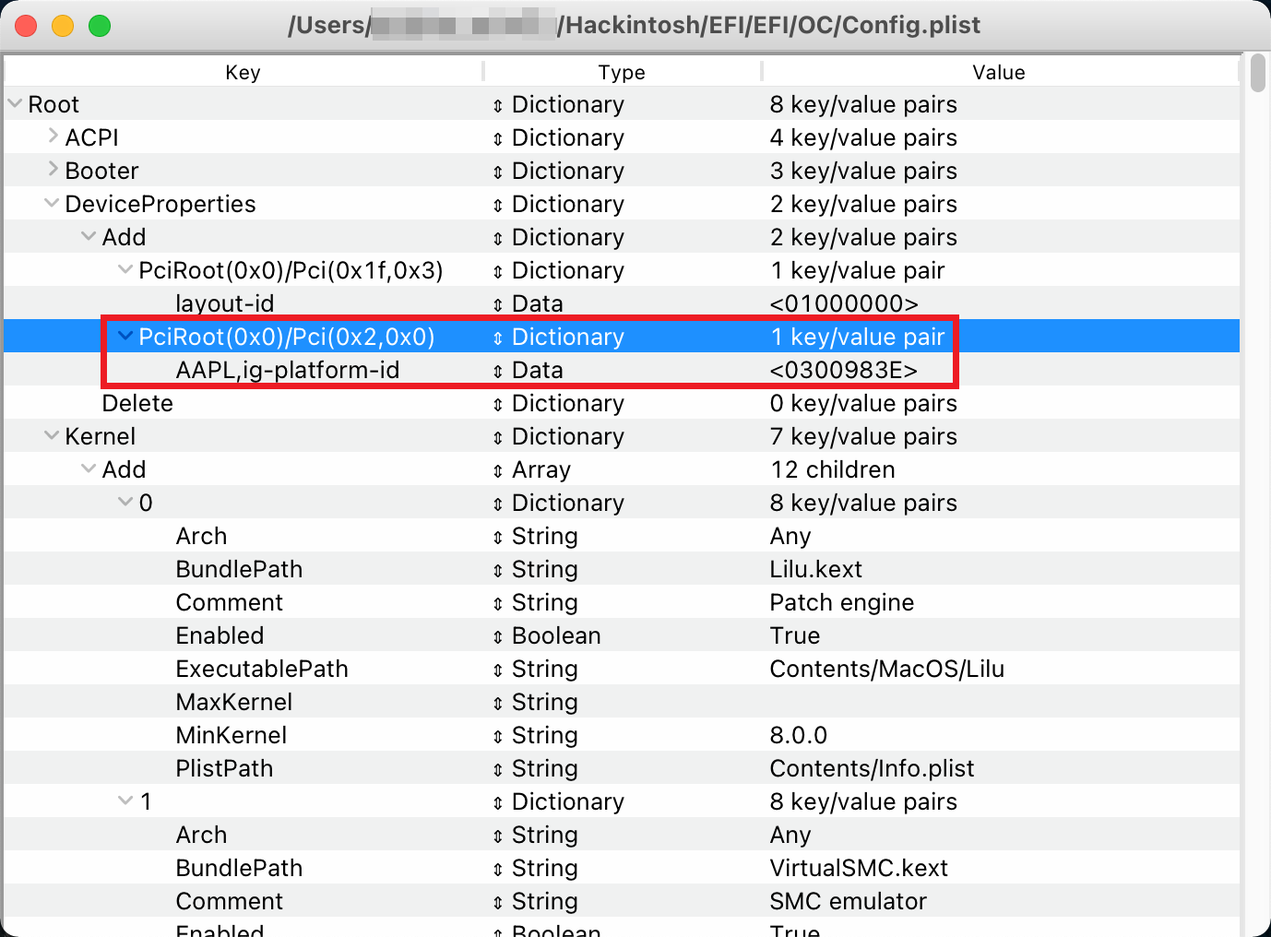
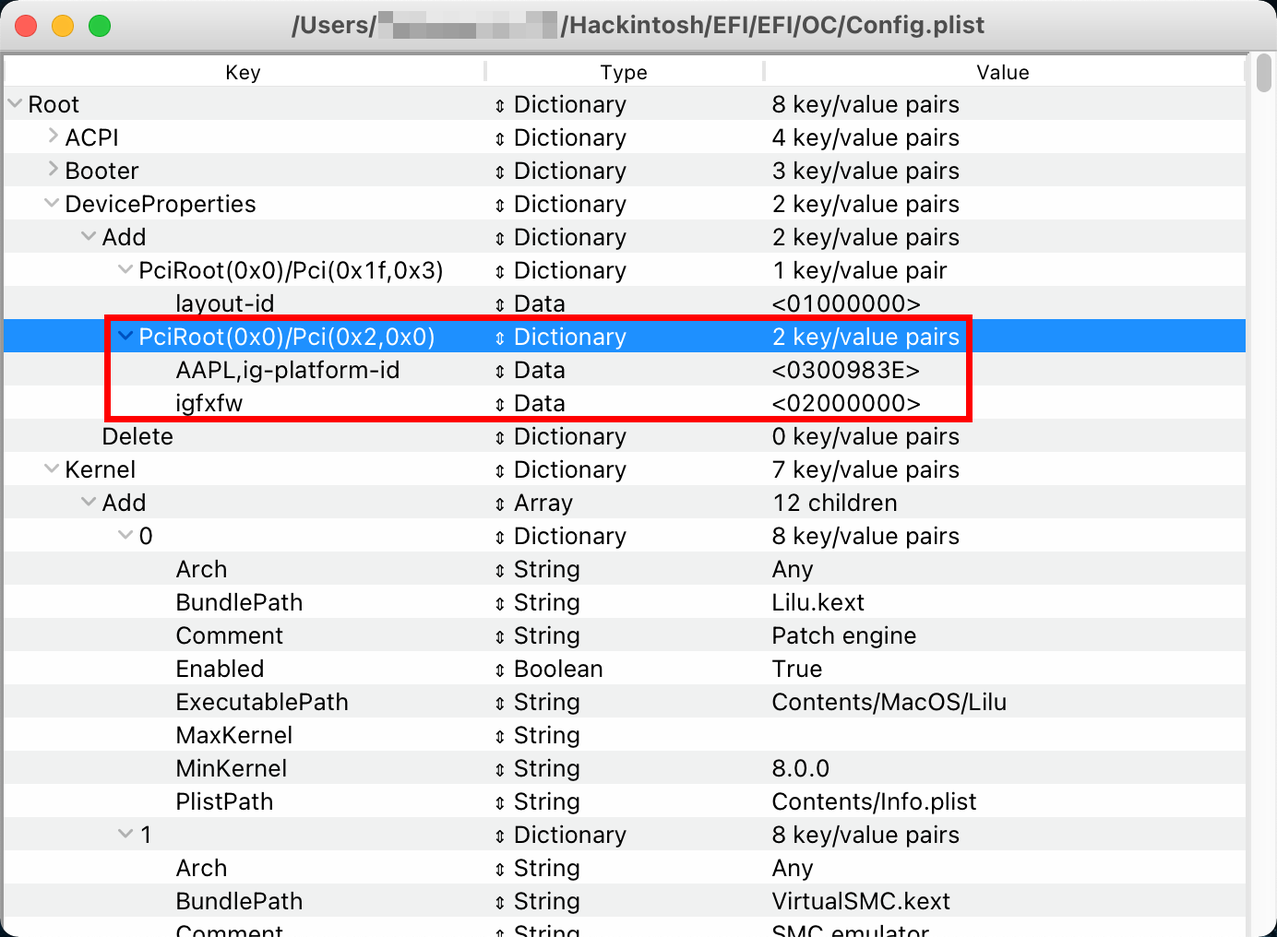
Update and fix

diff --git a/README.en.md b/README.en.md
@@ -1,7 +1,7 @@
-# MSI B360M MORTAR (TITANIUM) HACKINTOSH OpenCore EFI
+# MSI B360M MORTAR (TITANIUM) Hackintosh OpenCore EFI
 
 [![OpenCore](https://img.shields.io/badge/OpenCore-0.7.7-1ac3d4)](https://github.com/acidanthera/OpenCorePkg/releases/latest)
-[![MacOS](https://img.shields.io/badge/macOS-12.1-c62eb8)](https://www.apple.com/macos/monterey/)
+[![MacOS](https://img.shields.io/badge/macOS-12.2-c62eb8)](https://www.apple.com/macos/monterey/)
 [![Last Commit](https://img.shields.io/github/last-commit/GeQ1an/MSI-B360M-MORTAR-HACKINTOSH-OPENCORE-EFI.svg?color=orange&label=Last%20Commit)](https://github.com/GeQ1an/MSI-B360M-MORTAR-HACKINTOSH-OPENCORE-EFI/commits/master/)
 [![Follow Me](https://img.shields.io/badge/Follow-Telegram-1da4de)](https://t.me/usestick/)
 
@@ -11,9 +11,9 @@ My English is average, but I will try my best to translate, some content from Go
 
 <img src="Images/Readme/Image.jpg" align="right" width="360" />
 
-This EFI uses `iMac19,1` SMBIOS. Most users of MSI B360M MORTAR (includes TITANIUM version) can use it through modification. The integrated graphics and discrete graphics participate in hardware decoding. By default, all USB ports are injected. OpenCore version: 0.7.7. The highest system supports macOS Monterey 12.2 beta.
+This EFI uses `iMac19,1` SMBIOS. Most users of MSI B360M MORTAR (includes TITANIUM version) can use it through modification. The integrated graphics and discrete graphics participate in hardware decoding. By default, all USB ports are injected. OpenCore version: 0.7.7. The highest system supports macOS Monterey 12.2.
 
-> Please note: This EFI is only a personal build sharing, and is marked with simple tips. It is not a standard OpenCore Hackintosh installation guide. If you need a standard installation guide, please jump to [Dortania's Getting Started](https://dortania.github.io/getting-started/). Starting hackintosh after installing or updating the hardware for the first time may encounter some problems. Although most of the problems can be solved, in fact, there are some problems that can not be solved. It can even be said that there is a certain element of luck. If you want to apply this EFI, it is recommended to use a configuration close to mine in order to have the same experience as much as possible.
+> Please note: This EFI is only a personal build sharing, and is marked with simple tips. It is not a standard OpenCore Hackintosh installation guide. If you need a standard installation guide, please jump to [Dortania's Getting Started](https://dortania.github.io/getting-started/). You may encounter some problems when starting Hackintosh after installing or updating hardware for the first time. Although most of the problems can be solved, there are actually some problems that cannot be solved. It can even be said that there is a certain element of luck in it. If you want to Applying this EFI recommends using hardware close to mine in order to have the same experience as possible.
 
 #### About Mac
 ![](https://raw.githubusercontent.com/GeQ1an/MSI-B360M-MORTAR-HACKINTOSH-OPENCORE-EFI/master/Images/Screenshots/About.en.png)
@@ -25,7 +25,7 @@ This EFI uses `iMac19,1` SMBIOS. Most users of MSI B360M MORTAR (includes TITANI
 - [x] AirDrop / Handoff / Sidecar
 - [x] FaceTime / iMessage
 - [x] Apple Music / Apple TV Plus
-- [x] XCPM / HWP
+- [x] XCPM (XNU's CPU Power Management) / HWP
 - [x] Sleep / Wake from Keyboard and Mouse
 - [x] Other Mac features (99% completed)
 
@@ -56,7 +56,7 @@ This EFI uses `iMac19,1` SMBIOS. Most users of MSI B360M MORTAR (includes TITANI
 |         Memory | Commonly used RAMs are generally compatible                                                                 |
 |            SSD | Except for some special (e.g. Samsung PM981 / PM991), the commonly used SSDs are generally compatible       |
 |  Graphics Card | RX 500 Series (Above 560) / RX VEGA Series / Radeon VII / RX 5000 Series / RX 6000 Series (Except 6700 XT)  |
-|  Wireless Card | Recommended Fenvi® FV-T919 or Mac disassembly network card (BCM94360 / BCM943602)                           |
+|  Wireless Card | Recommended Fenvi® FV-T919 or Mac disassembly wireless card (BCM94360 / BCM943602)                          |
 |   Case + Power | According to personal preferences and the power of CPU and graphics card                                    |
 |  Cooling + Fan | According to personal preferences                                                                           |
 |        Monitor | According to personal preferences (Recommended 4K or higher resolution)                                     |
@@ -64,76 +64,77 @@ This EFI uses `iMac19,1` SMBIOS. Most users of MSI B360M MORTAR (includes TITANI
 |         Others | According to personal preferences (Note device compatibility with macOS)                                    |
 
 *Tips 1：If you buy RX 500 series graphics cards, first choose Sapphire, then choose Dataland, Asus and MSI, try not to choose Yeston and XFX, and definitely avoid the RX 580 2048SP version!*<br>
-*Tips 2：It is recommended to buy new graphics cards of the RX 5000 series and RX 6000 series. Sapphire is relatively poor in the RX 6000 series. It is not recommended to choose it first, and definitely avoid the RX 6700 XT. The minimum macOS system version is Big Sur 11.4 beta 1 to use the RX 6800 / RX 6800 XT / RX 6900 XT graphics card, and the minimum system version of macOS to use the RX 6600 / RX 6600 XT graphics card is Monterey 12.1 beta 1.*<br>
-*Tips 3：Try to avoid Samsung when buying hard drives, especially macOS Monterey will cause longer boot time due to TRIM (almost all users have problems with the 970 EVO, and some users have problems with the 980 PRO). It is recommended to choose a relatively stable hard drive such as Western Digital SN850 / SN750 and Intel 760P.*<br>
+*Tips 2：It is recommended to buy new graphics cards of the RX 5000 series and RX 6000 series. Sapphire is relatively poor in the RX 6000 series. It is not recommended to choose it first, and definitely avoid the RX 6700 XT. The minimum macOS version required to use the RX 6800 / RX 6800 XT / RX 6900 XT graphics card is Big Sur 11.4 beta 1, and the minimum version of macOS to use the RX 6600 / RX 6600 XT graphics card is Monterey 12.1 beta 1.*<br>
+*Tips 3：Try to avoid Samsung when buying hard drives, especially macOS Monterey will cause longer boot time due to TRIM (Almost all users have problems with the 970 EVO, and some users have problems with the 980 PRO). It is recommended to choose a relatively stable hard drive such as Western Digital SN850 / SN750 and Intel 760P.*<br>
 
 ## Changelog
-#### January 21, 2022
-Replace USBPorts kext with USBMap kext
+#### January 23, 2022
+* Replaced USBPorts kext with USBMap kext
+* Adjusted igfxfw=2 parameter to integrated graphics DeviceProperties
 
-*Now because customizing USB on macOS has become very complicated, the default is changed to USBMap.kext which can be directly and easily customized on Windows. Go to [Advanced Used](#advanced-used) to see how to use my customized USB mapping.*
+*Now because customizing USB on macOS has become very complicated, the default is changed to USBMap.kext which can be directly and easily customized on Windows. Go to [Advanced Usage](#advanced-usage) to see how to use my customized USB mapping. After adjusting igfxfw=2 parameter to DeviceProperties, users without an integrated graphics card can simply delete PciRoot(0x0)/Pci(0x2,0x0) in DeviceProperties, and do not need to adjust boot-args.*
 
 #### January 17, 2022
-* Adjust some options in Config.plist
+* Adjusted some options in Config.plist
 
 *Specifically: Turn off Booter > Quirks > EnableWriteUnprotector & ProtectUefiServices, turn on RebuildAppleMemoryMap & SyncRuntimePermissions (theoretically, the compatibility is better, to avoid startup problems on some machines); Turn off Misc > Security > BlacklistAppleUpdate (deprecated as of OC 0.7.0); Turn off UEFI > Output > SanitiseClearScreen (this option does not take effect in BuiltinGraphics mode). This adjustment is to enhance compatibility and turn off unnecessary options. The previous settings do not affect the use. If there is no special requirement, you can wait until the next OC update.*
 
 #### January 12, 2022
-* Disable ACPI > Patch > 0 Patch in Config.plist for disabling modify GPRW power management S4 to S3
-* Disable Kernel > Add > 10 & 11 kexts in Config.plist for disabling CPUFriend
+* Disabled ACPI > Patch > 0 Patch in Config.plist for disabling modify GPRW power management S4 to S3
+* Disabled Kernel > Add > 10 & 11 kexts in Config.plist for disabling CPUFriend
 
 *Adhering to the principle of simplification, the test found that it is no longer necessary to downgrade GPRW to S3 to sleep normally, so this patch is turned off by default. If the sleep is not normal after the update (it appears to wake up from sleep), please try to reopen this patch. Disable CPUFriend by default for the convenience of basic users, and can be opened after customization if necessary.*
 
 #### January 11, 2022
-* Update OpenCore to 0.7.7 official version
-* Update Lilu \ AppleALC \ WhateverGreen kexts to latest official version, remove USBPower kext
-* Update OpenRuntime \ OpenCanopy \ OpenHfsPlus drivers
-* Organize SSDT into a more mainstream configuration, add SSDT-EC-USBX, update SSDT-PLUG, remove SSDT-PM and merge into SSDT-PLUG
+* Updated OpenCore to 0.7.7 official version
+* Updated Lilu \ AppleALC \ WhateverGreen kexts to latest official version, removed USBPower kext
+* Updated OpenRuntime \ OpenCanopy \ OpenHfsPlus drivers
+* Organized SSDT into a more mainstream configuration, added SSDT-EC-USBX, updated SSDT-PLUG, removed SSDT-PM and merge into SSDT-PLUG
 
 *OC 0.7.7's Config.plist adds and adjusts some entries, recommended to reconfigure according to usage habits. Support macOS 12.2 and can be updated in Software Update after the official version is released.*
 
 <details><summary>2021 History changes</summary>
 
 #### December 9, 2021
-* Update OpenCore to 0.7.6 official version
-* Update Lilu \ AppleALC \ VitualSMC kexts to latest official version, update USBInjectAll kext to newer modified version
-* Update OpenRuntime \ OpenCanopy drivers
+* Updated OpenCore to 0.7.6 official version
+* Updated Lilu \ AppleALC \ VitualSMC kexts to latest official version, updated USBInjectAll kext to newer modified version
+* Updated OpenRuntime \ OpenCanopy drivers
 
 *OC 0.7.6's Config.plist adds and adjusts some entries, recommended to reconfigure according to usage habits. This version will automatically detect HiDPI by default, generally no manual settings are required, but you may need to reset the NVRAM once (if the Apple logo is displayed abnormally during startup); Synchronized OC official hide the auxiliary tools in the guide selection interface, press the space bar to display.*
 
 #### November 10, 2021
-* Update OpenCore to 0.7.5 official version
-* Update Lilu \ AppleALC \ WhateverGreen \ VitualSMC kexts to latest official version
-* Update OpenRuntime \ OpenCanopy \ OpenHfsPlus drivers
-* Modify Misc > Security > DmgLoading to `Signed` \ Misc > Security > SecureBootModel to `Default` in Config.plist (See [Q&A 9](#9-why-enable-secure-boot-and-sip)); Modify NVRAM > Add > 7C436110-XXXX > csr-active-config to `00000000` \ Misc > Security > AllowToggleSip to `True/Yes` in Config.plist (See [Q&A 9](#9-why-enable-secure-boot-and-sip)); Modify Misc > Boot > TakeoffDelay to`5000` in Config.plist to improve compatibility
+* Updated OpenCore to 0.7.5 official version
+* Updated Lilu \ AppleALC \ WhateverGreen \ VitualSMC kexts to latest official version
+* Updated OpenRuntime \ OpenCanopy \ OpenHfsPlus drivers
+* Modified Misc > Security > DmgLoading to `Signed` \ Misc > Security > SecureBootModel to `Default` in Config.plist (See [Q&A 9](#9-why-enable-secure-boot-and-sip)); Modified NVRAM > Add > 7C436110-XXXX > csr-active-config to `00000000` \ Misc > Security > AllowToggleSip to `True/Yes` in Config.plist (See [Q&A 9](#9-why-enable-secure-boot-and-sip)); Modified Misc > Boot > TakeoffDelay to`5000` in Config.plist to improve compatibility
 
 **Notes**：1. If you are still using **macOS Catalina 10.15.x or older**, you need to **modify the UEFI > APFS > MinData and MinVersion parameters in Config.plist** to `-1` (See [Q&A 10](#10-why-need-to-modify-the-configuration-to-use-catalina)); 2. Update or install **macOS Big Sur 11.3.1 and later systems**, please **customize and enable the USB ports** in advance (See [Q&A Item 11](#11-why-have-to-customize-the-usb-ports)).<br>
 <br>
 *OC 0.7.5's Config.plist adds and deletes some entries, this change is relatively large, recommended to reconfigure according to usage habits. Support macOS 12.1 and can be updated in Software Update after the official version is released.*
 
 #### ~~July 12, 2021~~
-* ~~Update OpenCore to 0.7.1 official version~~
-* ~~Update Lilu \ AppleALC \ WhateverGreen \ VitualSMC \ IntelMausi \ CPUFriend kexts to latest official version, Add NVMeFix kext and enable~~
-* ~~Update OpenRuntime \ OpenCanopy drivers, Replace HfsPlus driver with OpenHfsPlus driver, Remove ExFatDxe driver~~
-* ~~Replace VerifyMsrE2 tool with ControlMsrE2 tool~~
-* ~~Update `/EFI/OC/Resources` boot theme files~~
+* ~~Updated OpenCore to 0.7.1 official version~~
+* ~~Updated Lilu \ AppleALC \ WhateverGreen \ VitualSMC \ IntelMausi \ CPUFriend kexts to latest official version, Added NVMeFix kext and enable~~
+* ~~Updated OpenRuntime \ OpenCanopy drivers, Replace HfsPlus driver with OpenHfsPlus driver, removed ExFatDxe driver~~
+* ~~Replaced VerifyMsrE2 tool with ControlMsrE2 tool~~
+* ~~Updated `/EFI/OC/Resources` boot theme files~~
 
 *~~OC 0.7.1's Config.plist adds and deletes some entries, recommended to reconfigure according to usage habits. In this version, the startup theme is enabled by default. If you need to turn it off, you can change the Misc > Boot > Picker: `External` to `Builtin` in Config.plist; Support macOS 11.5 and can be updated in Software Update after the official version is released.~~ This update has not been uploaded due to network issues.*
 
 #### February 8, 2021
-* Update OpenCore to 0.6.6 official version
-* Update Lilu \ AppleALC \ WhateverGreen \ VitualSMC kexts to latest official version
-* Update OpenRuntime \ OpenCanopy drivers
-* Update `/EFI/OC/Resources` boot theme files
-* Remove `/EFI/OC/Bootstrap/Bootstrap.efi`
+* Updated OpenCore to 0.6.6 official version
+* Updated Lilu \ AppleALC \ WhateverGreen \ VitualSMC kexts to latest official version
+* Updated OpenRuntime \ OpenCanopy drivers
+* Updated `/EFI/OC/Resources` boot theme files
+* Removed `/EFI/OC/Bootstrap/Bootstrap.efi`
 
 *OC 0.6.6's Config.plist adds and deletes some entries, recommended to reconfigure according to usage habits. Support macOS 11.2 and can be updated in Software Update. The usage of high priority for boot items has changed, see [Q&A 7](#7-how-to-use-oc-boot-item-high-priority).*
 
 #### January 16, 2021
-* Update OpenCore to 0.6.5 official version
-* Update AppleALC \ WhateverGreen \ IntelMausi \ CPUFriend kexts to latest official version
-* Update OpenRuntime \ OpenCanopy drivers
-* Update `/EFI/OC/Resources` boot theme files
+* Updated OpenCore to 0.6.5 official version
+* Updated AppleALC \ WhateverGreen \ IntelMausi \ CPUFriend kexts to latest official version
+* Updated OpenRuntime \ OpenCanopy drivers
+* Updated `/EFI/OC/Resources` boot theme files
 
 *OC 0.6.5's Config.plist only adds two new entries: Misc > Boot > PickerVariant and UEFI > Audio > SetupDelay, delete one entry: UEFI > Quirks > DeduplicateBootOrder. Recommended to add them manually.*
 
@@ -142,77 +143,77 @@ Replace USBPorts kext with USBMap kext
 <details><summary>2020 History changes</summary>
 
 #### December 18, 2020
-* Update OpenCore to 0.6.4 official version
-* Update Lilu \ AppleALC \ WhateverGreen \ VitualSMC kexts to latest official version, update USBInjectAll kext to newer modified version
-* Update OpenRuntime \ OpenCanopy drivers
-* Remove SSDT-HCMC SSDT file
+* Updated OpenCore to 0.6.4 official version
+* Updated Lilu \ AppleALC \ WhateverGreen \ VitualSMC kexts to latest official version, updated USBInjectAll kext to newer modified version
+* Updated OpenRuntime \ OpenCanopy drivers
+* Removed SSDT-HCMC SSDT file
 
 *OC 0.6.4's Config.plist adds and deletes some entries, recommended to reconfigure according to usage habits. Support macOS 11.1 and can be updated in Software Update.*
 
 #### November 12, 2020
-* Update OpenCore to 0.6.3 official version
-* Update Lilu \ AppleALC \ WhateverGreen \ VitualSMC kexts to latest official version
-* Update OpenRuntime \ OpenCanopy drivers
+* Updated OpenCore to 0.6.3 official version
+* Updated Lilu \ AppleALC \ WhateverGreen \ VitualSMC kexts to latest official version
+* Updated OpenRuntime \ OpenCanopy drivers
 
 *OC 0.6.3's Config.plist only adds three new entries: Kernel > Quirks > ForceSecureBootScheme, PlatformInfo > CustomMemory and UEFI > Output > ForceResolution. Recommended to add them manually. Support ~~bugOS~~macOS Big Sur 11.0 RC, see [Q&A 8](#8-how-to-use-macos-big-sur-11).*
 
 #### October 10, 2020
-* Update OpenCore to 0.6.2 official version
-* Update Lilu \ AppleALC \ WhateverGreen \ IntelMausi \ VitualSMC \ CPUFriend kexts to latest official version
-* Update OpenRuntime \ OpenCanopy drivers
-* Add `/EFI/OC/Bootstrap/Bootstrap.efi`
+* Updated OpenCore to 0.6.2 official version
+* Updated Lilu \ AppleALC \ WhateverGreen \ IntelMausi \ VitualSMC \ CPUFriend kexts to latest official version
+* Updated OpenRuntime \ OpenCanopy drivers
+* Added `/EFI/OC/Bootstrap/Bootstrap.efi`
 
 *OC 0.6.2's Config.plist adds and deletes some entries, recommended to reconfigure according to usage habits. Support macOS 10.15.6 and can be updated in Software Update; Support ~~bugOS~~macOS Big Sur 11.0 beta, see [Q&A 8](#8-how-to-use-macos-big-sur-11). For the Bootstrap, see [Q&A 7] (#7-how-to-use-oc-boot-item-high-priority).*
 
 #### September 16, 2020
-* Update OpenCore to 0.6.1 official version
-* Update Lilu \ AppleALC \ WhateverGreen \ VitualSMC kexts to latest official version
-* Update OpenRuntime \ OpenCanopy drivers
+* Updated OpenCore to 0.6.1 official version
+* Updated Lilu \ AppleALC \ WhateverGreen \ VitualSMC kexts to latest official version
+* Updated OpenRuntime \ OpenCanopy drivers
 
 *OC 0.6.1's Config.plist adds and deletes some entries, recommended to reconfigure according to usage habits. Support ~~bugOS~~macOS Big Sur 11.0 beta, see [Q&A 8](#8-how-to-use-macos-big-sur-11).*
 
 #### August 7, 2020
-* Update OpenCore to 0.6.0 official version
-* Update Lilu \ AppleALC \ WhateverGreen \ VitualSMC \ CPUFriend kexts to latest official version
-* Update OpenRuntime \ OpenCanopy drivers
+* Updated OpenCore to 0.6.0 official version
+* Updated Lilu \ AppleALC \ WhateverGreen \ VitualSMC \ CPUFriend kexts to latest official version
+* Updated OpenRuntime \ OpenCanopy drivers
 
 *OC 0.6.0's Config.plist adds and deletes some entries, recommended to reconfigure according to usage habits. Support macOS 10.15.6 and can be updated in Software Update; Support ~~bugOS~~macOS Big Sur 11.0 beta, see [Q&A 8](#8-how-to-use-macos-big-sur-11).*
 
 #### June 16, 2020
-* Update OpenCore to 0.5.9 official version
-* Update Lilu \ AppleALC \ IntelMausi \ WhateverGreen \ VitualSMC kexts to latest official version, update USBInjectAll kext to newer modified version
-* Update OpenRuntime \ OpenCanopy drivers, Remove the ApfsDriverLoader driver
-* Update `/EFI/OC/Resources` boot theme files
+* Updated OpenCore to 0.5.9 official version
+* Updated Lilu \ AppleALC \ IntelMausi \ WhateverGreen \ VitualSMC kexts to latest official version, updated USBInjectAll kext to newer modified version
+* Updated OpenRuntime \ OpenCanopy drivers, Removed the ApfsDriverLoader driver
+* Updated `/EFI/OC/Resources` boot theme files
 
 *OC 0.5.9's Config.plist adds and deletes some entries, recommended to reconfigure according to usage habits. Support macOS 10.15.5 and can be updated in Software Update.*
 
 #### April 12, 2020
-* Update OpenCore to 0.5.7 official version
-* Update Lilu \ AppleALC \ WhateverGreen \ VitualSMC kexts to latest official version
-* Replace the FwRuntimeServices driver with OpenRuntime driver, Add OpenCanopy driver
-* Replace Shell tools with OpenShell tools
-* Add the `/EFI/OC/Resources` theme related folder, where the Font\Image\Label directory contains files
-* Enable KASLR, add igfxfw=2 boot-args
+* Updated OpenCore to 0.5.7 official version
+* Updated Lilu \ AppleALC \ WhateverGreen \ VitualSMC kexts to latest official version
+* Replaced the FwRuntimeServices driver with OpenRuntime driver, Added OpenCanopy driver
+* Replaced Shell tools with OpenShell tools
+* Added the `/EFI/OC/Resources` theme related folder, where the Font\Image\Label directory contains files
+* Enabled KASLR, added igfxfw=2 boot-args
 
 *OC 0.5.7's Config.plist adds and deletes some entries, recommended to reconfigure according to usage habits. Added boot theme but not enabled by default. If you need to use it, you can change the Misc > Boot > Picker: `Builtin` to `External` in Config.plist; igfxfw=2 boot-args can use the integrated graphics at full frequency, if there is no integrated graphics, you can remove it.*
 
 #### March 3, 2020
-* Update OpenCore to 0.5.6 official version
-* Update Lilu \ AppleALC \ WhateverGreen kexts to latest official version
-* Update ApfsDriverLoader \ HfsPlus \ FwRuntimeServices drivers to latest version
-* Add ExFatDxe driver, add EFI > Drivers > 2: ExFatDxe.efi in Config.plist
-* Update Shell \ VerifyMsrE2 tools to latest version
-* Remove `/EFI/OC/Tools/memtest.efi`, remove Misc > Tools > 2 in Config.plist
+* Updated OpenCore to 0.5.6 official version
+* Updated Lilu \ AppleALC \ WhateverGreen kexts to latest official version
+* Updated ApfsDriverLoader \ HfsPlus \ FwRuntimeServices drivers to latest version
+* Added ExFatDxe driver, add EFI > Drivers > 2: ExFatDxe.efi in Config.plist
+* Updated Shell \ VerifyMsrE2 tools to latest version
+* Removed `/EFI/OC/Tools/memtest.efi`, removed Misc > Tools > 2 in Config.plist
 
 *OC 0.5.6's Config.plist adds and deletes some entries, recommended to reconfigure according to usage habits. Support ~~bugOS~~macOS 10.15.4 and can be updated in Software Update after the official version is released.*
 
 #### February 14, 2020
-* Remove Slide=129 boot-args（Related [Issue](https://github.com/GeQ1an/MSI-B360M-MORTAR-HACKINTOSH-OPENCORE-EFI/issues/7)）
-* Delete `/EFI/OC/Drivers/AppleUsbKbDxe.efi` (No effect, see the explanation of [vit9696 for details](https://applelife.ru/threads/opencore-obsuzhdenie-i-ustanovka.2944066/page-176#post-856653))
-* Modify `/EFI/OC/Drivers/HFSPlus.efi` name to `HfsPlus.efi`, modify UEFI > Drivers > 2 to HfsPlus.efi in Config.plist (Uniform name format)
+* Removed Slide=129 boot-args（Related [Issue](https://github.com/GeQ1an/MSI-B360M-MORTAR-HACKINTOSH-OPENCORE-EFI/issues/7)）
+* Deleted `/EFI/OC/Drivers/AppleUsbKbDxe.efi` (No effect, see the explanation of [vit9696 for details](https://applelife.ru/threads/opencore-obsuzhdenie-i-ustanovka.2944066/page-176#post-856653))
+* Modified `/EFI/OC/Drivers/HFSPlus.efi` name to `HfsPlus.efi`, modified UEFI > Drivers > 2 to HfsPlus.efi in Config.plist (Uniform name format)
 
 #### February 10, 2020
-* Fix OpenCore 0.5.5 renamed SupportCsm to AdviseWindows
+* Fixed OpenCore 0.5.5 renamed SupportCsm to AdviseWindows
 
 *Please manually change the name of this item (PlatformInfo > Generic) and suggest to adjust AdviseWindows to the top of Generic as per the official example.*
 
@@ -222,9 +223,9 @@ Replace USBPorts kext with USBMap kext
 *In the actual measurement, when TakeoffDelay is set to 150, the Native Shortcut Keys can be triggered, but the probability of success is small. 200 is a relatively balanced value, and it can be adjusted appropriately, such as between 300 and 500.*
 
 #### February 4, 2020
-* Update OpenCore to 0.5.5 official version
-* Update AppleALC \ VitualSMC kexts to latest official version
-* Add UEFI Shell tool (Not enabled)
+* Updated OpenCore to 0.5.5 official version
+* Updated AppleALC \ VitualSMC kexts to latest official version
+* Added UEFI Shell tool (Not enabled)
 
 *OC 0.5.5's Config.plist adds some new entries, recommended to reconfigure according to usage habits.*
 
@@ -238,14 +239,14 @@ sudo defaults delete com.apple.loginwindow LogoutHook  //Clear trigger settings 
 ```
 
 #### January 14, 2020
-* Update OpenCore to 0.5.4 official version
-* Update Lilu \ AppleALC \ CPUFriend \ VitualSMC \ WhateverGreen kexts to latest official version
-* Remove `/EFI/OC/Drivers/virtualsmc.efi` (already merged into OC)
+* Updated OpenCore to 0.5.4 official version
+* Updated Lilu \ AppleALC \ CPUFriend \ VitualSMC \ WhateverGreen kexts to latest official version
+* Removed `/EFI/OC/Drivers/virtualsmc.efi` (already merged into OC)
 
 *OC 0.5.4's Config.plist adds some new entries, recommended to reconfigure according to usage habits.*
 
 #### January 5, 2020
-* Use the official OpenCore patch to indirectly fix the "Can't sleep without Enable Power Nap" issue and remove SSDT-SBUS.aml
+* Used the official OpenCore patch to indirectly fix the "Can't sleep without Enable Power Nap" issue and remove SSDT-SBUS.aml
 
 *Disable Power Nap is to not be automatically woken up after sleep. After enabling the "Disable RTC wake scheduling" patch of OC, Enable Power Nap can go to sleep normally without being automatically woken up, and indirectly achieve "Disable Power Nap to go to sleep", such as The patch can be turned off manually without needing(Thanks to [ArchFeh](https://github.com/GeQ1an/MSI-B360M-MORTAR-HACKINTOSH-OPENCORE-EFI/issues/5) for the text suggestion).*<br>
 ![](https://raw.githubusercontent.com/GeQ1an/MSI-B360M-MORTAR-HACKINTOSH-OPENCORE-EFI/master/Images/Explain/ProperTree_Kernel_Patch.png)
@@ -255,18 +256,18 @@ sudo defaults delete com.apple.loginwindow LogoutHook  //Clear trigger settings 
 <details><summary>2019 History changes</summary>
 
 #### December 29, 2019
-* Update WhateverGreen kext to the latest compiled version of 1.3.6
-* Fix "Can't sleep without Enable Power Nap" (In theory it should working)
+* Updated WhateverGreen kext to the latest compiled version of 1.3.6
+* Fixed "Can't sleep without Enable Power Nap" (In theory it should working)
 
 #### December 23, 2019
-* Update WhateverGreen kext to 1.3.6
-* Modify the shikigva boot-args code to 80 (Support Safari hard-decoding DRM content)
+* Updated WhateverGreen kext to 1.3.6
+* Modified the shikigva boot-args code to 80 (Support Safari hard-decoding DRM content)
 
 #### December 20, 2019
-* Upload the lost SSDT-SBUS.aml (Used to fix "Can't sleep without Enable Power Nap", the specific effect is to be tested)
+* Uploaded the lost SSDT-SBUS.aml (Used to fix "Can't sleep without Enable Power Nap", the specific effect is to be tested)
 
 #### December 19, 2019
-* After three days of testing, upload the first version
+* After three days of testing, uploaded the first version
 
 </details>
 
@@ -337,7 +338,7 @@ After saving, pass the USB disk test first, and then put the EFI folder to the E
 ### Use Without Dedicated Graphics
 Suitable for users who **only use integrated graphics**.<br>
 1. Fill in the code + ROM information of the `Macmini8,1` model to PlatformInfo > Generic in `/EFI/OC/Config.plist`, and change the SystemProductName to `Macmini8,1`<br>
-2. Modify AAPL,ig-platform-id under DeviceProperties > Add > PciRoot(0x0)/Pci(0x2,0x0) in `/EFI/OC/Config.plist` to `07009B3E`, and add device-id to `9B3E0000`, add framebuffer-unifiedmem to `00000080`, add framebuffer-patch-enable to `01000000` (as shown below).<br>
+2. Modify AAPL,ig-platform-id under DeviceProperties > Add > PciRoot(0x0)/Pci(0x2,0x0) in `/EFI/OC/Config.plist` to `07009b3e`, and add device-id to `9b3e0000`, add framebuffer-patch-enable to `01000000`, add framebuffer-unifiedmem to `00000080` (as shown below).<br>
 ![](https://raw.githubusercontent.com/GeQ1an/MSI-B360M-MORTAR-HACKINTOSH-OPENCORE-EFI/master/Images/Explain/ProperTree_DeviceProperties_I.png)
 <br>
 After saving, pass the USB disk test first, and then put the EFI folder to the EFI partition of the boot disk and restart the computer.
@@ -345,10 +346,10 @@ After saving, pass the USB disk test first, and then put the EFI folder to the E
 ### For RX 5000 \ RX 6000 Series Discrete Graphics
 At present, RX 5000 series Navi 10 core graphics card, RX 6000 series Navi 21 core graphics card and RX 6000 series Navi 23 core graphics card should manually add the `agdpmod=pikera` boot-args to prevent black screen after startup, there is no other solution.
 
-### Advanced Used
+### Advanced Usage
 1. Refer to [OpenCore Post-Install](https://dortania.github.io/OpenCore-Post-Install/usb/intel-mapping/intel.html#intel-usb-mapping) use [USBToolBox](https://github.com/USBToolBox/tool/releases/latest) in Windows environment to generate `USBMap.kext` customized USB mapping, put `/EFI/OC/Kexts/` to replace the file with the same name, open `/EFI/OC/Config.plist`, Turn off Kernel > Add > 7, Turn on 8.<br>
    ![](https://raw.githubusercontent.com/GeQ1an/MSI-B360M-MORTAR-HACKINTOSH-OPENCORE-EFI/master/Images/Explain/ProperTree_Kernel_USB.png)
-   *There is my customized USB mapping in the directory, you can try it with your EFI backup. The SMBIOS is iMac19,1. If you use other SMBIOS, you need to open `USBMap.kext/Contents/Info.plist` and modify IOKitPersonalities > XHC > model: iMac19,1 to your SMBIOS; if you need to cancel the built-in HS07, open `USBMap.kext/Contents/Info.plist` and modify IOKitPersonalities > XHC > IOProviderMergeProperties > ports > HS07 > UsbConnector: 255 to 0. The specific USB mapping is shown below:*<br>
+   *There is my customized USB mapping in the directory, you can try it with your EFI backup. The SMBIOS is iMac19,1. If you use other SMBIOS, you need to open `USBMap.kext/Contents/Info.plist` and modify IOKitPersonalities > XHC > model: iMac19,1 to your SMBIOS. If you need to cancel the built-in HS07, open `USBMap.kext/Contents/Info.plist` and modify IOKitPersonalities > XHC > IOProviderMergeProperties > ports > HS07 > UsbConnector: 255 to 0. The specific USB mapping is shown below:*<br>
    
    <details><summary>Click to expand</summary>
    
@@ -417,7 +418,7 @@ At present, RX 5000 series Navi 10 core graphics card, RX 6000 series Navi 21 co
 #### 10. Why need to modify the configuration to use Catalina?
    Starting from OpenCore 0.7.2, earlier APFS drivers will not be loaded (for security reasons), which will cause systems lower than Big Sur 11.0 to fail to boot. If you want to boot Catalina or earlier systems, please Modify the MinDate and MinVersion under the configuration file UEFI > APFS to `-1`, please refer to the document in [OC 0.7.2 version](https://github.com/acidanthera/OpenCorePkg/releases/tag/0.7.2) for details.
 #### 11. Why have to customize the USB ports?
-   Starting from macOS Big Sur 11.3.1, the system will invalidate XhciPortLimit, so that even if the USBInjectAll kext is loaded, more than 15 USB ports cannot be loaded correctly. You can search for the USB customization tutorial by yourself or refer to [OpenCore Post Install](https:// dortania.github.io/OpenCore-Post-Install/usb/) Tutorial for customizing USB mapping. Or go to [Advanced Used](#advanced-used) to see how to use my customized USB mapping.
+   Starting from macOS Big Sur 11.3.1, the system will invalidate XhciPortLimit, so that even if the USBInjectAll kext is loaded, more than 15 USB ports cannot be loaded correctly. You can search for the USB customization tutorial by yourself or refer to [OpenCore Post Install](https:// dortania.github.io/OpenCore-Post-Install/usb/) Tutorial for customizing USB mapping. Or go to [Advanced Usage](#advanced-usage) to see how to use my customized USB mapping.
 #### 12. Pending upgrade
 
 ## Conclusion

diff --git a/Images/Preview.md b/Images/Preview.md
@@ -1,17 +1,17 @@
 ## 截图预览
-系统版本：macOS Monterey 12.1，OpenCare 版本：0.7.7，EFI 更新日期：2022.01.17
+系统版本：macOS Monterey 12.1，OpenCare 版本：0.7.7，EFI 更新日期：2022.01.23
 
 ### 关于本机
 ![](https://raw.githubusercontent.com/GeQ1an/MSI-B360M-MORTAR-HACKINTOSH-OPENCORE-EFI/master/Images/Screenshots/About.png)
 
 ### 系统报告
-![](https://raw.githubusercontent.com/GeQ1an/MSI-B360M-MORTAR-HACKINTOSH-OPENCORE-EFI/master/Images/Screenshots/System_Report_Graphics.png)
-<br>
-![](https://raw.githubusercontent.com/GeQ1an/MSI-B360M-MORTAR-HACKINTOSH-OPENCORE-EFI/master/Images/Screenshots/System_Report_Ethernet.png)
-<br>
 ![](https://raw.githubusercontent.com/GeQ1an/MSI-B360M-MORTAR-HACKINTOSH-OPENCORE-EFI/master/Images/Screenshots/System_Report_NVMe.png)
 <br>
 ![](https://raw.githubusercontent.com/GeQ1an/MSI-B360M-MORTAR-HACKINTOSH-OPENCORE-EFI/master/Images/Screenshots/System_Report_USB.png)
+<br>
+![](https://raw.githubusercontent.com/GeQ1an/MSI-B360M-MORTAR-HACKINTOSH-OPENCORE-EFI/master/Images/Screenshots/System_Report_Ethernet.png)
+<br>
+![](https://raw.githubusercontent.com/GeQ1an/MSI-B360M-MORTAR-HACKINTOSH-OPENCORE-EFI/master/Images/Screenshots/System_Report_Graphics.png)
 <br>
 ![](https://raw.githubusercontent.com/GeQ1an/MSI-B360M-MORTAR-HACKINTOSH-OPENCORE-EFI/master/Images/Screenshots/System_Report_WiFi.png)
 

diff --git a/Images/Preview.en.md b/Images/Preview.en.md
@@ -1,13 +1,13 @@
 ## Screenshot Preview
-System version：macOS Monterey 12.1，OpenCare version：0.7.7，EFI update date：January 17, 2022
+System version：macOS Monterey 12.1，OpenCare version：0.7.7，EFI update date：January 23, 2022
 
 ### About Mac
 ![](https://raw.githubusercontent.com/GeQ1an/MSI-B360M-MORTAR-HACKINTOSH-OPENCORE-EFI/master/Images/Screenshots/About.en.png)
 
 ### System Report
-![](https://raw.githubusercontent.com/GeQ1an/MSI-B360M-MORTAR-HACKINTOSH-OPENCORE-EFI/master/Images/Screenshots/System_Report_Graphics.en.png)
-<br>
 ![](https://raw.githubusercontent.com/GeQ1an/MSI-B360M-MORTAR-HACKINTOSH-OPENCORE-EFI/master/Images/Screenshots/System_Report_Ethernet.en.png)
+<br>
+![](https://raw.githubusercontent.com/GeQ1an/MSI-B360M-MORTAR-HACKINTOSH-OPENCORE-EFI/master/Images/Screenshots/System_Report_Graphics.en.png)
 <br>
 ![](https://raw.githubusercontent.com/GeQ1an/MSI-B360M-MORTAR-HACKINTOSH-OPENCORE-EFI/master/Images/Screenshots/System_Report_NVMe.en.png)
 <br>
